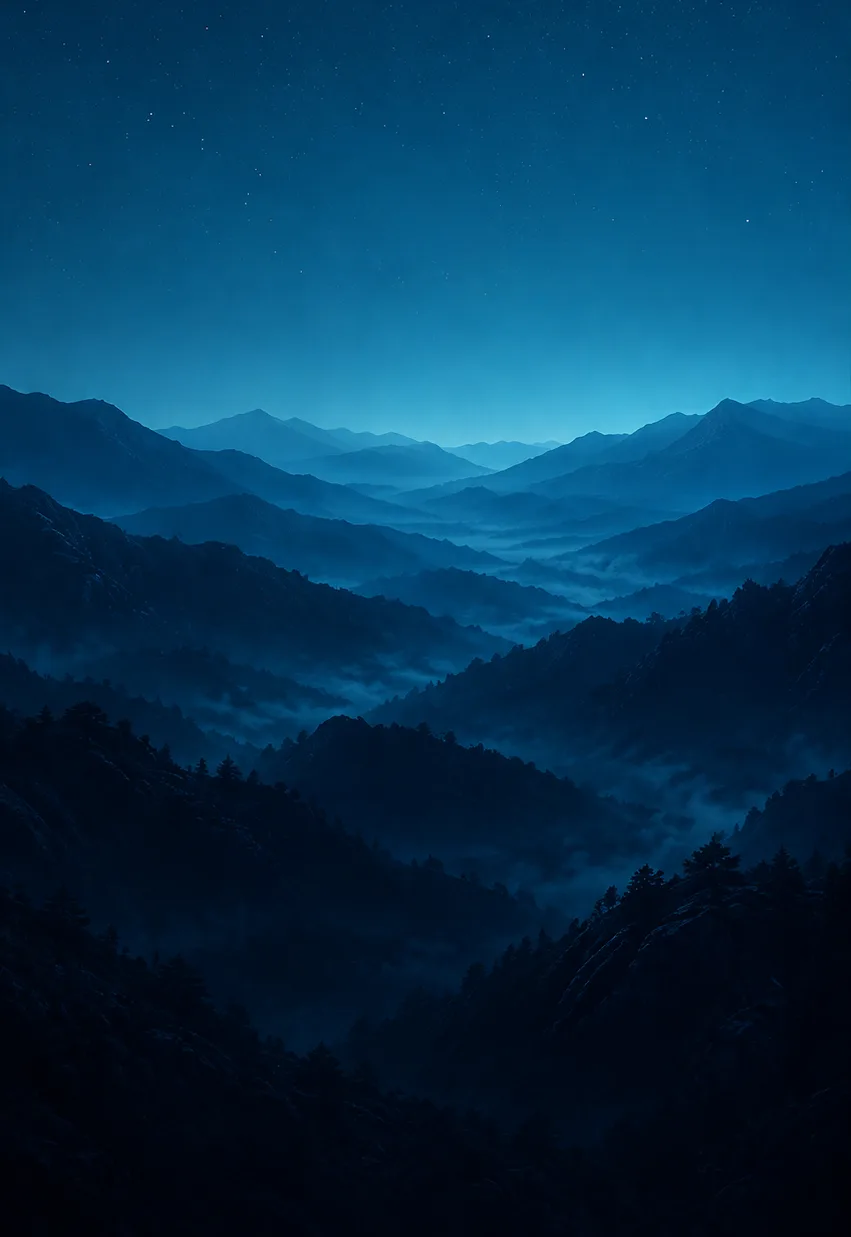
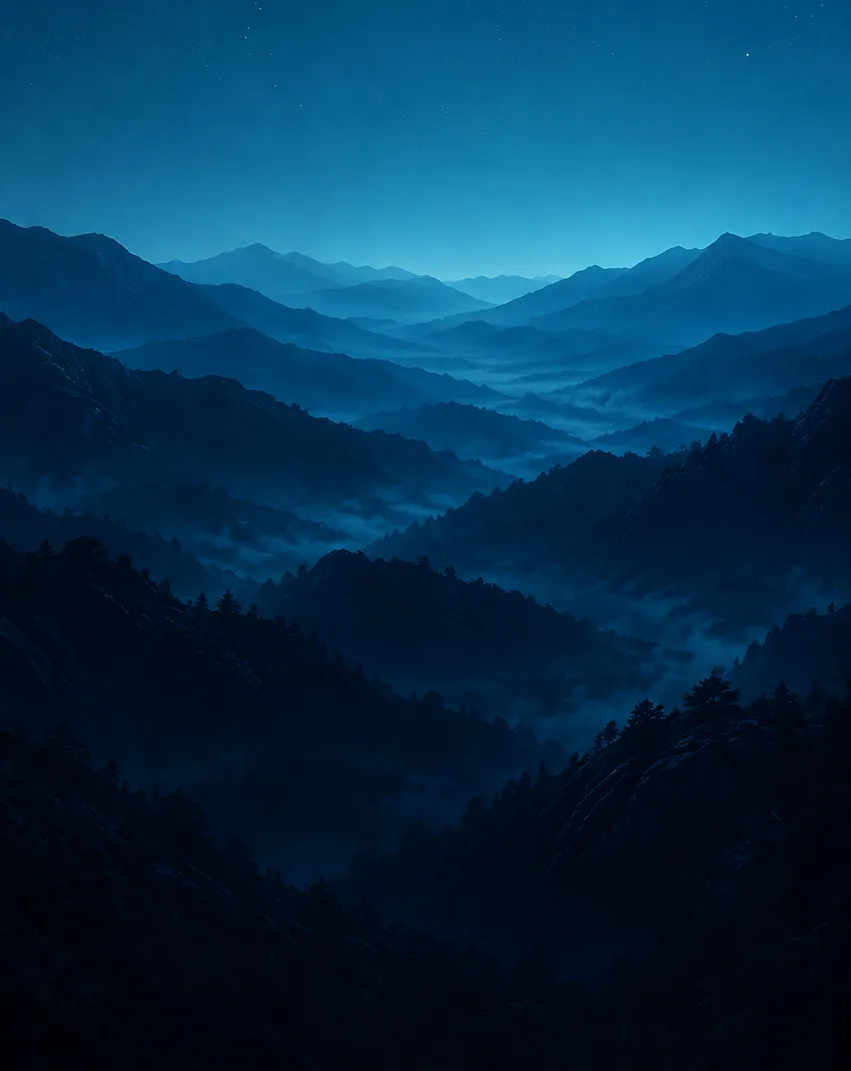
Karargah: takvim/tarih blogu kalkti; ortali tek satir canli geri sayim (gun+ss:dd:sn) + basvuru mini; dag kirpma %42

diff --git a/src/app/(tabs)/index.tsx b/src/app/(tabs)/index.tsx
@@ -200,6 +200,20 @@ export default function KarargahScreen() {
   const [tekrarAcik, setTekrarAcik] = useState(false);
   // ŞAFAK SAHNESİ verileri (bayraklı): kalan gün + başvuru penceresi + haftalık gün halkaları.
   const kalanGun = Math.max(0, Math.ceil((SINAV_TARIHI.getTime() - Date.now()) / 86400000));
+  // CANLI geri sayım (başkan, 11 Ağu): tek satır "39 GÜN 13:07:42" — saniyede bir işler.
+  const [kalanSn, setKalanSn] = useState(() =>
+    Math.max(0, Math.floor((SINAV_TARIHI.getTime() - Date.now()) / 1000)),
+  );
+  useEffect(() => {
+    if (!aramaMevzuatta) return;
+    const t = setInterval(
+      () => setKalanSn(Math.max(0, Math.floor((SINAV_TARIHI.getTime() - Date.now()) / 1000))),
+      1000,
+    );
+    return () => clearInterval(t);
+  }, [aramaMevzuatta]);
+  const p2 = (n: number) => String(n).padStart(2, '0');
+  const geriSayim = `${Math.floor(kalanSn / 86400)} GÜN ${p2(Math.floor((kalanSn % 86400) / 3600))}:${p2(Math.floor((kalanSn % 3600) / 60))}:${p2(kalanSn % 60)}`;
   const basvuruAcik = Date.now() >= BASVURU_BASLANGIC.getTime() && Date.now() <= BASVURU_BITIS.getTime();
   const [hafta, setHafta] = useState<{ harf: string; tamam: boolean }[]>([]);
   const [queue, setQueue] = useState<QueueCard[] | null>(null);
@@ -531,65 +545,33 @@ export default function KarargahScreen() {
                 ekran görüntüsü). Arkada SVG ufuk silüeti — fotoğraf yok, OTA-güvenli. */}
             {/* SVG dağ silüeti kaldırıldı (11 Ağu): arka planda artık GERÇEK dağ görseli var
                 (screen.tsx koyu modu) — çizim taklidi onunla çakışıyordu. */}
-            <View style={styles.takvimSahne}>
-              <View style={styles.takvimSol}>
-                <View style={styles.takvimIkonKutu}>
-                  <MaterialCommunityIcons name="calendar-month-outline" size={24} color={Palette.altinParlak} />
-                </View>
-                <AppText variant="etiket" bold color="altinParlak" style={styles.takvimEtiket}>
-                  SINAV TAKVİMİ
-                </AppText>
-                <AppText variant="baslik" bold color="beyaz">
-                  {basvuruAcik
-                    ? 'Başvurular açık'
-                    : Date.now() < BASVURU_BASLANGIC.getTime()
-                      ? 'Başvurular yakında'
-                      : 'Başvurular kapandı'}
-                </AppText>
-                <AppText variant="govde" bold color="altinParlak">
-                  3 – 23 Ağustos
-                </AppText>
-                <View style={styles.takvimCizgi} />
-                <Pressable
-                  onPress={() =>
-                    Alert.alert(
-                      'Sınav Takvimi',
-                      'Başvuru dönemi: 3 – 23 Ağustos 2026\nSınav: 19 Eylül 2026, 14:00',
-                    )
-                  }
-                  hitSlop={8}
-                  style={styles.detayLink}
-                  accessibilityRole="button"
-                  accessibilityLabel="Sınav takvimi detayları">
-                  <AppText variant="kucuk" bold color="beyaz">
-                    Detaylar
-                  </AppText>
-                  <MaterialCommunityIcons name="chevron-right" size={18} color={Palette.altinParlak} />
-                </Pressable>
+            {/* Başkan (11 Ağu): SINAV TAKVİMİ bloğu + tarih SİLİNDİ (süreli içerik derdi yok).
+                Yerine: ortada TEK SATIR canlı geri sayım (dev serif font, saniye işler) +
+                mühür + "JSPS sınavına kalan süre". Başvuru tarihi küçük satır — 23 Ağustos
+                geçince kendiliğinden kaybolur. */}
+            <View style={styles.sayacMerkez}>
+              <AppText
+                variant="dev"
+                bold
+                color="beyaz"
+                numberOfLines={1}
+                adjustsFontSizeToFit
+                style={styles.devTekSatir}>
+                {geriSayim}
+              </AppText>
+              <View style={[styles.sagMuhurSatir, styles.muhurDar]}>
+                <View style={styles.sagMuhurCizgi} />
+                <MaterialCommunityIcons name="shield-star" size={14} color={Palette.altinParlak} />
+                <View style={styles.sagMuhurCizgi} />
               </View>
-              <View style={styles.takvimDikey} />
-              <View style={styles.takvimSag}>
-                <AppText variant="etiket" bold color="altinParlak" style={styles.takvimEtiket}>
-                  19 EYLÜL 2026
+              <AppText variant="kucuk" bold color="beyaz" style={styles.sagAltYazi}>
+                JSPS sınavına kalan süre
+              </AppText>
+              {basvuruAcik ? (
+                <AppText variant="etiket" bold color="altinParlak" style={styles.basvuruMini}>
+                  Başvurular: 3 – 23 Ağustos
                 </AppText>
-                <AppText variant="dev" bold color="beyaz" style={styles.devGun}>
-                  {kalanGun}
-                </AppText>
-                <AppText variant="baslik" bold color="beyaz" style={styles.devGunAlt}>
-                  GÜN
-                </AppText>
-                <View style={styles.sagMuhurSatir}>
-                  <View style={styles.sagMuhurCizgi} />
-                  <MaterialCommunityIcons name="shield-star" size={14} color={Palette.altinParlak} />
-                  <View style={styles.sagMuhurCizgi} />
-                </View>
-                <AppText variant="etiket" bold color="altinParlak" style={styles.jspsEtiket}>
-                  JSPS SINAVI
-                </AppText>
-                <AppText variant="kucuk" color="beyaz" style={styles.sagAltYazi}>
-                  Sınava kalan süre
-                </AppText>
-              </View>
+              ) : null}
             </View>
 
             {/* ═══ BUGÜNÜN EMRİ KARTI — yumuşak petrol panel + ilerleme halkası. */}
@@ -1536,6 +1518,29 @@ const styles = StyleSheet.create({
   takvimSahne: {
     flexDirection: 'row',
     gap: Spacing.three,
+  },
+  // Ortalı tek-satır canlı sayaç sahnesi (11 Ağu)
+  sayacMerkez: {
+    alignItems: 'center',
+    gap: 2,
+    paddingVertical: Spacing.two,
+  },
+  devTekSatir: {
+    fontSize: 44,
+    lineHeight: 52,
+    letterSpacing: 1,
+    textAlign: 'center',
+    fontVariant: ['tabular-nums'],
+    alignSelf: 'stretch',
+  },
+  muhurDar: {
+    alignSelf: 'center',
+    width: '62%',
+    paddingHorizontal: 0,
+  },
+  basvuruMini: {
+    letterSpacing: 1,
+    marginTop: Spacing.one,
   },
   takvimSol: {
     flex: 1.15,
